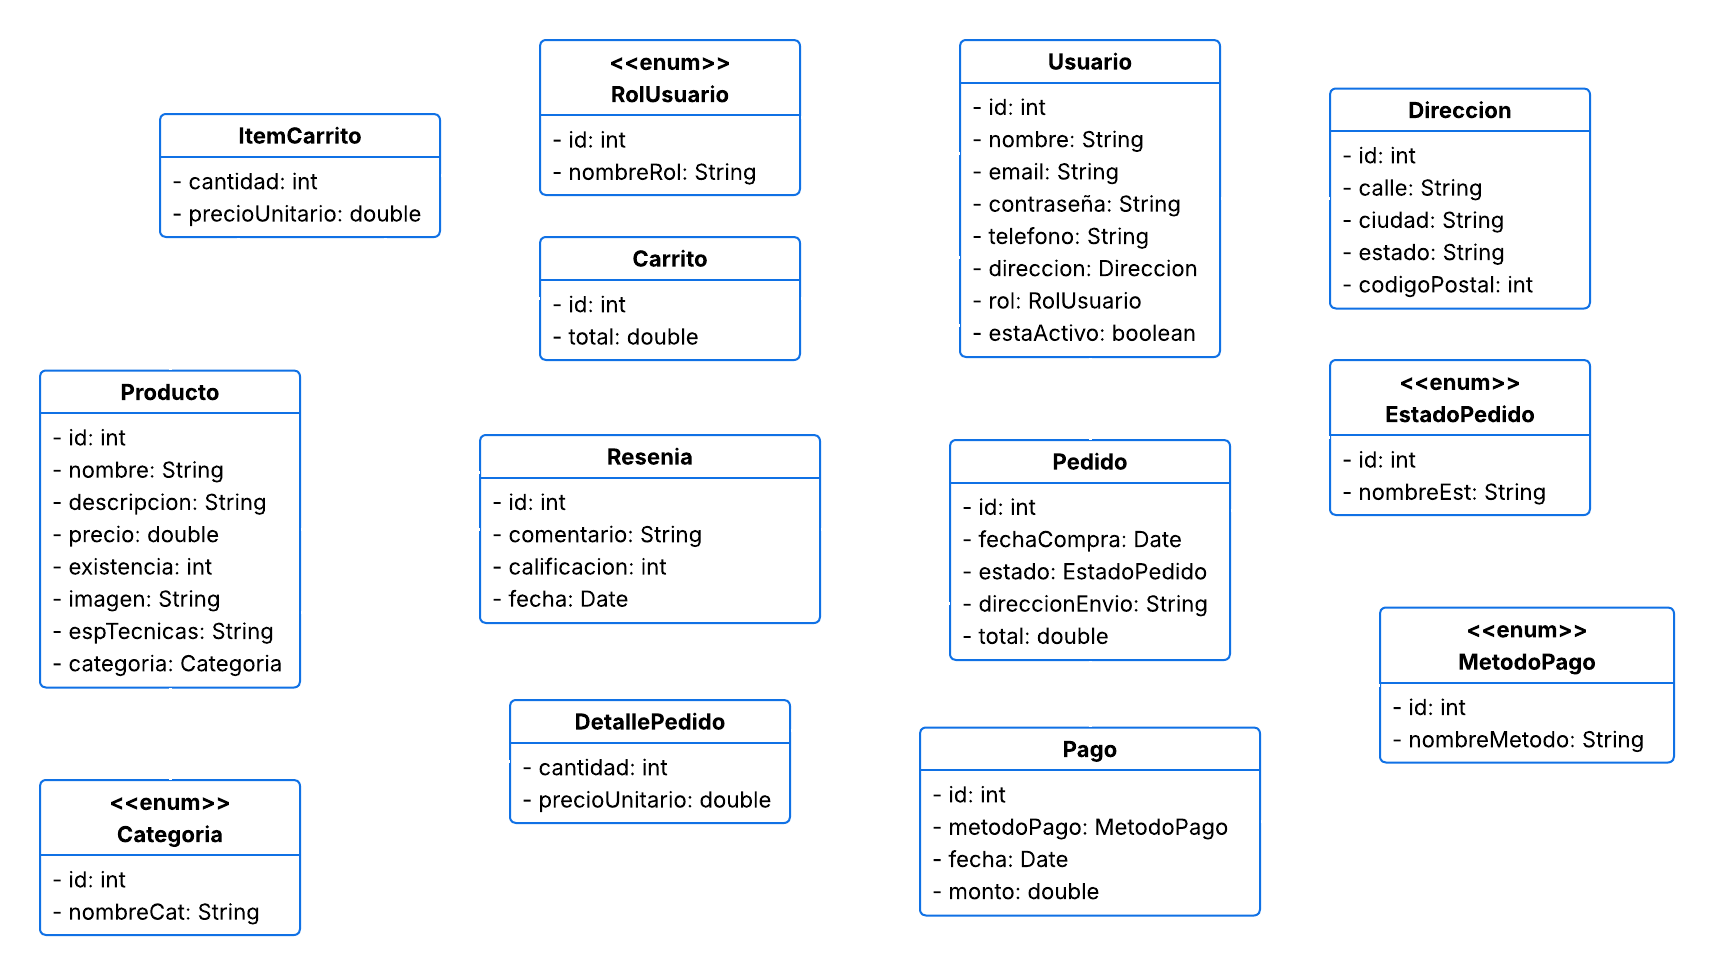
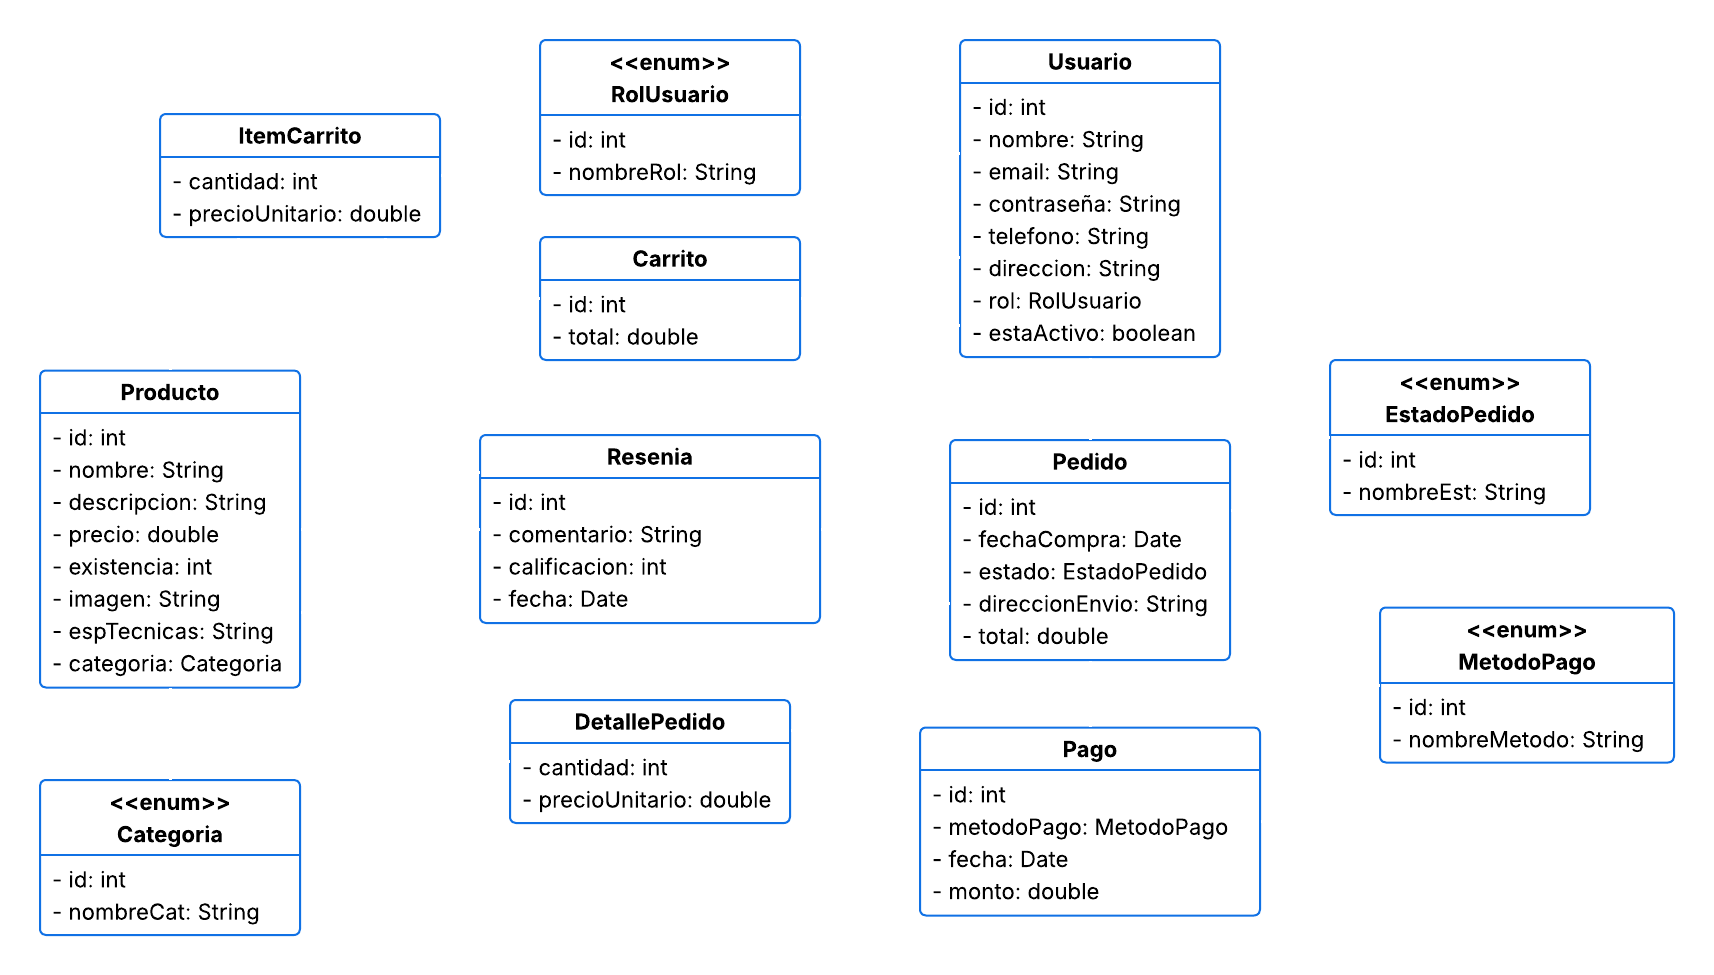
Cambios Menores. Se agrego lo siguiente: - Se actualizo el registro.html y el UsuariosServlet, ya que no guardaban el telefono del usuario. - Se cambio el Diagrama de clases de dominio, ya que no utilizaremos la direccion del usuario como otra clase, si no, como un atributo String.

diff --git a/Ecommerce/src/main/webapp/registro.html b/Ecommerce/src/main/webapp/registro.html
@@ -48,6 +48,11 @@
             </div>
 
             <div class="form_group">
+                <label for="telefono">Teléfono:</label>
+                <input type="text" name="telefono" id="telefono">
+            </div>
+
+            <div class="form_group">
                 <label for="direccion">Dirección:</label>
                 <input type="text" name="direccion" id="direccion">
             </div>

diff --git a/Ecommerce/src/main/java/itson/ecommerce/servlets/UsuariosServlet.java b/Ecommerce/src/main/java/itson/ecommerce/servlets/UsuariosServlet.java
@@ -198,6 +198,7 @@ public class UsuariosServlet extends HttpServlet {
         String nombre = request.getParameter("nombre");
         String email = request.getParameter("email");
         String direccion = request.getParameter("direccion");
+        String telefono = request.getParameter("telefono");
         String password = request.getParameter("password");
 
         try {
@@ -207,6 +208,7 @@ public class UsuariosServlet extends HttpServlet {
             usuario.setEmail(email);
             usuario.setContrasenia(password);
             usuario.setDireccion(direccion);
+            usuario.setTelefono(telefono);
             usuario.setEsActivo(true);
             usuario.setRolUsuario(Docs.RolUsuario.CLIENTE); // Cliente por defecto
 
